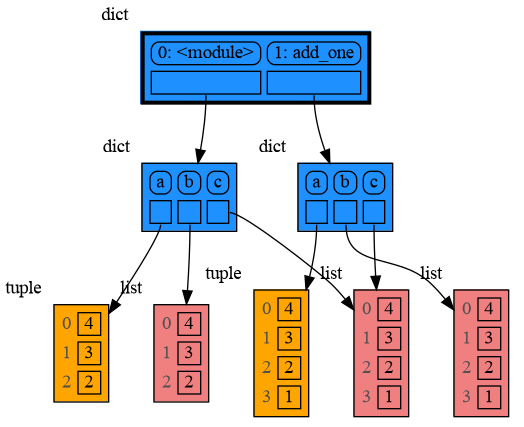
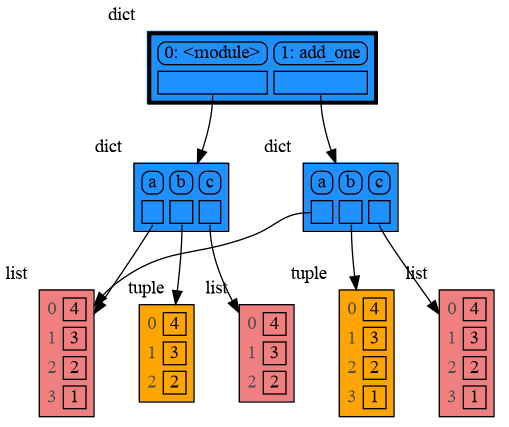
update

diff --git a/images/add_one.py b/images/add_one.py
@@ -1,14 +1,14 @@
 import memory_graph
 
 def add_one(a, b, c):
-    a += (1,)
-    b += [1]
+    a += [1]
+    b += (1,)
     c += [1]
     memory_graph.render( memory_graph.get_call_stack(), "add_one.png")
 
-a = (4, 3, 2)
-b = [4, 3, 2]
+a = [4, 3, 2]
+b = (4, 3, 2)
 c = [4, 3, 2]
 
-add_one(a, b.copy(), c)
+add_one(a, b, c.copy())
 print(f"a:{a} b:{b} c:{c}")

diff --git a/README.md b/README.md
@@ -142,7 +142,7 @@ memory_graph.render(locals(), 'mutable2.png')
 | mutable1.png | mutable2.png |
 
 
-Python makes this distiction between mutable and immutable types because a value of a mutable type generally could be large and therefore it would be slow to make a copy each time we change it. On the other hand, a value of a changable immutable type generally is small and therefore fast to copy.
+Python makes this distiction between mutable and immutable types because a value of a mutable type could be large and therefore it would be slow to make a copy each time we change it. On the other hand, a value of a immutable type generally is small and therefore fast to copy.
 
 
 ### Copying ###
@@ -250,26 +250,26 @@ The function `memory_graph.get_call_stack()` returns the complete call stack, in
 import memory_graph
 
 def add_one(a, b, c):
-    a += (1,)
-    b += [1]
+    a += [1]
+    b += (1,)
     c += [1]
     memory_graph.show(memory_graph.get_call_stack())
 
-a = (4, 3, 2)
-b = [4, 3, 2]
+a = [4, 3, 2]
+b = (4, 3, 2)
 c = [4, 3, 2]
 
-add_one(a, b.copy(), c)
+add_one(a, b, c.copy())
 print(f"a:{a} b:{b} c:{c}")
 ```
 ![add_one.png](https://raw.githubusercontent.com/bterwijn/memory_graph/main/images/add_one.png)
 
-In the printed output only `c` is changed as a result of the function call:
+In the printed output only `a` is changed as a result of the function call:
 ```
-a:(4, 3, 2) b:[4, 3, 2] c:[4, 3, 2, 1]
+a:[4, 3, 2, 1] b:(4, 3, 2) c:[4, 3, 2]
 ```
 
-This is because `a` is of immutable type 'tuple' so its value gets copied automatically when it is changed. And because the function is called with a copy of `b`, its original value is not changed by the function. The only value of mutable type that is shared between the root stack frame **0: \<module>** and the **1: add_one** stack frame of the function is `c`, so only that values is changed as a result of the function call.
+This is because `b` is of immutable type 'tuple' so its value gets copied automatically when it is changed. And because the function is called with a copy of `c`, its original value is not changed by the function. The value of variable `a` is the only value of mutable type that is shared between the root stack frame **0: \<module>** and the **1: add_one** stack frame of the function so only that variable is affected as a result of the function call. The other changes remain confined to the local variables of the ```add_one()``` function.
 
 
 ### Recursion ###
